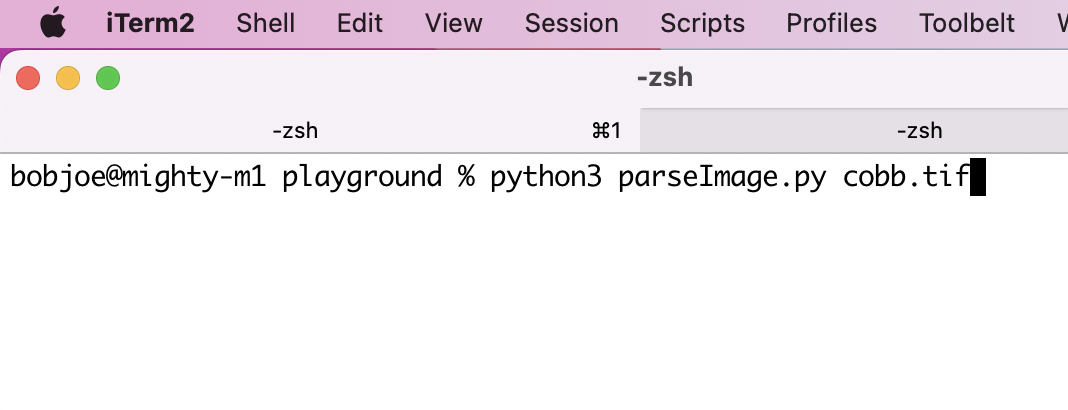
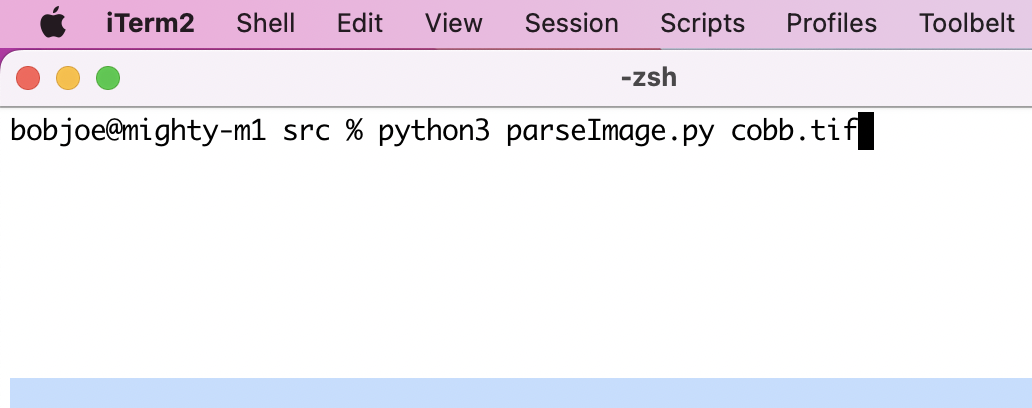
rename geotiff_play -> parseGeoTIFF.py, clean up README

diff --git a/src/getTarget.py b/src/getTarget.py
@@ -15,7 +15,7 @@ import mgrs # Military Grid ref converter
 import math
 from math import sin, asin, cos, atan2, sqrt
 import decimal # more float precision with Decimal objects
-import geotiff_play
+import parseGeoTIFF
 import sys
 
 """get the pos of current subject of UAS camera
@@ -237,7 +237,7 @@ def resolveTarget(y, x, z, azimuth, theta, elevationData, xParams, yParams):
     #     if so, skip iterative search b/c target is directly
     #     below us:
     if math.isclose((math.pi / 2), theta):
-        terrainAlt = geotiff_play.getAltFromLatLon(y, x, xParams, yParams, elevationData)
+        terrainAlt = parseGeoTIFF.getAltFromLatLon(y, x, xParams, yParams, elevationData)
         finalDist = z - terrainAlt
         if finalDist < 0:
             print(f'\n ERROR: bad calculation!\n')
@@ -296,9 +296,9 @@ def resolveTarget(y, x, z, azimuth, theta, elevationData, xParams, yParams):
     curY = decimal.Decimal(y)
     curX = decimal.Decimal(x)
     curZ = decimal.Decimal(z)
-    altDiff = curZ - geotiff_play.getAltFromLatLon(curY, curX, xParams, yParams, elevationData)
+    altDiff = curZ - parseGeoTIFF.getAltFromLatLon(curY, curX, xParams, yParams, elevationData)
     while altDiff > threshold:
-        groundAlt = geotiff_play.getAltFromLatLon(curY, curX, xParams, yParams, elevationData)
+        groundAlt = parseGeoTIFF.getAltFromLatLon(curY, curX, xParams, yParams, elevationData)
         altDiff = curZ - groundAlt
 
         avgAlt = curZ
@@ -325,7 +325,7 @@ def resolveTarget(y, x, z, azimuth, theta, elevationData, xParams, yParams):
     # simple pythagorean theorem
     # may be inaccurate for very very large horizontal distances
     finalDist = sqrt(finalHorizDist ** 2 + finalVertDist ** 2)
-    terrainAlt = geotiff_play.getAltFromLatLon(curY, curX, xParams, yParams, elevationData)
+    terrainAlt = parseGeoTIFF.getAltFromLatLon(curY, curX, xParams, yParams, elevationData)
 
     return((finalDist, curY, curX, curZ, terrainAlt))
 

diff --git a/src/parseGeoTIFF.py b/src/parseGeoTIFF.py
@@ -6,20 +6,28 @@ from math import sin, asin, cos, atan2, sqrt
 import decimal # more float precision with Decimal objects
 import getTarget
 # import numpy
-# import sys
+import sys
 
-# geotiff_play
+# parseGeoTIFF
 
 def main():
 
     print("Hello World!")
-    print("I'm geotiff_play.py")
+    print("I'm parseGeoTIFF.py")
     print("Which File would you like to read?")
 
-    geofile = input("Enter the GeoTIF filename: ")
+
+    if 1 < len(sys.argv) and len(sys.argv) < 3:
+        if sys.argv[1].split('.')[-1].lower() != "tif":
+            outstr = f'FATAL ERROR: got argument: {sys.argv[1]}, expected GeoTIFF DEM!'
+            sys.exit(outstr)
+        else:
+            geofile = sys.argv[1].strip()
+    else:
+        geofile = input("Enter the GeoTIF filename: ").strip()
     # geofile = 'Rome-30m-DEM.tif'
 
-    print("Okay, grabbing the GeoTIF file named: ", geofile)
+    print("Okay, grabbing the GeoTIF file named: ", geofile, "\n")
 
 
     # based on:
@@ -31,7 +39,7 @@ def main():
     elevation = band.ReadAsArray()
 
     print("The shape of the elevation data is: ", elevation.shape)
-    time.sleep(3)
+    time.sleep(1)
 
 
 

diff --git a/src/parseImage.py b/src/parseImage.py
@@ -51,7 +51,7 @@ import difflib
 # unused :(
 # from libxmp.utils import file_to_dict # python-xmp-toolkit, (c) ESA
 
-from geotiff_play import getAltFromLatLon, binarySearchNearest
+from parseGeoTIFF import getAltFromLatLon, binarySearchNearest
 from getTarget import *
 
 """prompt the user for options input,

diff --git a/README.md b/README.md
@@ -93,13 +93,13 @@ This software is in pre-alpha and results are not guaranteed to be accurate. Use
 
 [Python3](https://www.python.org/) (and the included pip package manager) must be installed first
 
-All you need to do is run `pip3 install gdal matplotlib mgrs`, then run `playground/geotiff_play.py` with python3:
+All you need to do is run `pip3 install gdal matplotlib mgrs`, then run `src/parseGeoTIFF.py` with python3:
 ```bash
 pip3 install gdal matplotlib mgrs
 # if this fails, instead install the GDAL package with your package manager (i.e. apt, yum, brew, pacman, etc.)
 git clone https://github.com/mkrupczak3/OpenAthena.git
-cd OpenAthena/playground
-python3 geotiff_play.py
+cd OpenAthena/src
+python3 parseGeoTIFF.py
 ```
 
 "pip3" and "python3" may just be called "pip" and "python" depending on the configuration of your system
@@ -110,16 +110,16 @@ This software is in pre-alpha and results are not guaranteed to be accurate. Use
 
 ### parseImage.py
 
-[parseImage.py](./playground/parseImage.py) can perform automatic extraction and use of EXIF/XMP sensor information from drone photos. This allows for the automatic extraction and use of data including the aircraft camera's lat/lon, altitude, azimuth, and angle of declenation (theta). OpenAthena (if provided [terrain elevation data](./EIO_fetch_geotiff_example.md)) will extract and use these values automaticaly to find the location on the ground in the exact center of the image
+[parseImage.py](./src/parseImage.py) can perform automatic extraction and use of EXIF/XMP sensor information from drone photos. This allows for the automatic extraction and use of data including the aircraft camera's lat/lon, altitude, azimuth, and angle of declenation (theta). OpenAthena (if provided [terrain elevation data](./EIO_fetch_geotiff_example.md)) will extract and use these values automaticaly to find the location on the ground in the exact center of the image
 
 [![image of command line on MacOS, command python3 parseImage.py bartow.tif, output and prompting user for drone image filename](./assets/parseImage_interactive_example2.png)](drone_sensor_data_blurb.md)
 
 
 More info [**here**](drone_sensor_data_blurb.md)
 
-### geotiff_play.py
+### parseGeoTIFF.py
 
-Run python geotiff_play.py (while in the playground directory) for a demonstration of [geoTIFF](https://en.wikipedia.org/wiki/GeoTIFF) [DEM](https://en.wikipedia.org/wiki/Digital_elevation_model) parsing. The file `Rome-30m-DEM.tif` is provided in the `playground` directory as an example. A DEM covering a customized area can be [easily obtained](./EIO_fetch_geotiff_example.md) using the python `elevation` API
+Run python parseGeoTIFF.py (while in the src directory) for a demonstration of [GeoTIFF](https://en.wikipedia.org/wiki/GeoTIFF) [DEM](https://en.wikipedia.org/wiki/Digital_elevation_model) parsing. The file `Rome-30m-DEM.tif` is provided in the `src` directory as an example. A DEM covering a customized area can be [easily obtained](./EIO_fetch_geotiff_example.md) using the python `elevation` API
 
 
 (counterintuitively, the x and y axis are backwards in the standard notation of a position via [latitude , longitude])
@@ -128,8 +128,8 @@ Run python geotiff_play.py (while in the playground directory) for a demonstrati
 
 
 ```
-user@mypc:~/projects/OpenAthena/playground$
-python geotiff_play.py
+user@mypc:~/projects/OpenAthena/src$
+python parseGeoTIFF.py
 ```
 ![render of terrain around Rome](./assets/render_cli_screenshot.png)
 
@@ -142,10 +142,10 @@ Then, exit the picture window that appears. You will now be prompted in the comm
 getTarget.py searches along the constructed line (emmitted from the camera center) for a terrain match
 
 
-To start, `cd` into the `playground` directory, then run getTarget.py:
+To start, `cd` into the `src` directory, then run getTarget.py:
 
 ```bash
-you@yourcomputer playground % python3 getTarget.py
+you@yourcomputer src % python3 getTarget.py
 ```
 
 You should then see the following prompt:
@@ -156,7 +156,7 @@ Which GeoTiff file would you like to read?
 Enter the GeoTIFF filename:
 ```
 
-You can clip [your own geoTIFF file](./playground/EIO_fetch_geotiff_example.md) from the [elevation API command line](http://elevation.bopen.eu/en/stable/quickstart.html#command-line-usage), or just use the provided example file `Rome-30m-DEM.tif` which contains the elevation data of the city of Rome, Italy and its outlying area
+You can clip [your own GeoTIFF file](./EIO_fetch_geotiff_example.md) from the [elevation API command line](http://elevation.bopen.eu/en/stable/quickstart.html#command-line-usage), or just use the provided example file `Rome-30m-DEM.tif` which contains the elevation data of the city of Rome, Italy and its outlying area
 
 
 ```bash
@@ -221,6 +221,8 @@ Target (lat, lon): 33.8352826, -84.5219971
 Google Maps: https://maps.google.com/?q=33.835283,-84.521997
 
 NATO MGRS: 16SGC2930646654
+MGRS 10m: 33TUG03953105
+MGRS 100m: 33TUG039310
 
 ```
 
@@ -246,7 +248,7 @@ The values should be tested for correctness and not totally relied upon in the c
 `Google Maps:` a link to the previous lat/lon on Google Maps. Each rounded to 6 decimal places
 
 
-`NATO MGRS: ` represents the target location in the [NATO Military Grid Reference System (MGRS)](https://en.wikipedia.org/wiki/Military_Grid_Reference_System), which is simmilar to [UTM](https://en.wikipedia.org/wiki/Universal_Transverse_Mercator_coordinate_system). This coordinate system does not include the altitude of the Target
+`NATO MGRS:` represents the target location in the [NATO Military Grid Reference System (MGRS)](https://en.wikipedia.org/wiki/Military_Grid_Reference_System), which is simmilar to [UTM](https://en.wikipedia.org/wiki/Universal_Transverse_Mercator_coordinate_system). This coordinate system does not include the altitude of the Target
 
 
 The program `getTarget.py` will then exit

diff --git a/EIO_fetch_geotiff_example.md b/EIO_fetch_geotiff_example.md
@@ -17,7 +17,7 @@ The `--bounds` option accepts latitude and longitude coordinates (more precisely
 
     $ eio clip -o Rome-30m-DEM.tif --bounds 12.35 41.8 12.65 42
 
-In the preceeding example, `12.35` is the western longitude bound, `41.8` is the southern latitude bound, `12.65` is the eastern most longitude bound, and `42` is the northernmost latitude bound of the rectangular area of the desired geoTIFF file.
+In the preceeding example, `12.35` is the western longitude bound, `41.8` is the southern latitude bound, `12.65` is the eastern most longitude bound, and `42` is the northernmost latitude bound of the rectangular area of the desired GeoTIFF file.
 
 To clean up stale temporary files and fix the cache in the event of a server error use:
 
@@ -33,4 +33,4 @@ The excellent elevation data set is generated by a technique known as [Synthetic
 The dataset for the elevation API backing the `eio clip` was generated by the (Space) [Shuttle Radar Topography Mission](https://en.wikipedia.org/wiki/Shuttle_Radar_Topography_Mission#Highest_Resolution_Global_Release) conducted in the year 2000. In 2015 a high resolution global [digital elevation model](https://en.wikipedia.org/wiki/Digital_elevation_model), derived from the SRTM dataset, covering most of the world was released to the public without restriction. This DEM derived from the SRTM mission has a high resolution of 1-arc second (approx 30 meters). [Studies](https://www.sciencedirect.com/science/article/pii/S2090447917300084) have shown the vertical accuracy of the datapoints are very good, with error being observed to be within +/- 10 meters, despite the +/- 16 meters figure which was published in the SRTM data specification
 
 ## Improvement
-OpenAthena can accept DEM geoTIFF files of higher resolution or accuracy than the SRTM dataset, if provided by the user. Newer synthetic aperature radar datasets and LIDAR datasests are likely availible to those with significant resources
+OpenAthena can accept DEM GeoTIFF files of higher resolution or accuracy than the SRTM dataset, if provided by the user. Newer synthetic aperature radar datasets and LIDAR datasests are likely availible to those with significant resources

diff --git a/drone_sensor_data_blurb.md b/drone_sensor_data_blurb.md
@@ -4,7 +4,7 @@ The consumer models of some drones do not display their position, altitude, came
 
 ### parseImage.py
 
-[parseImage.py](./playground/parseImage.py) has an experimental feature for automatic extraction and use of EXIF/XMP sensor information from drone photos
+[parseImage.py](./src/parseImage.py) has an experimental feature for automatic extraction and use of EXIF/XMP sensor information from drone photos
 
 parseImage.py can be run in an **interactive** mode, or **headless** mode based on how many arguments are given after `python parseImage.py`. **Interactive** is designed for use by humans with one or more images, **headless** is designed for use by automation with one or more images. The output of **headless** mode is subject to change in future versions
 
@@ -27,7 +27,7 @@ python parseImage.py bartow.tif
 
 ![image of command line on MacOS, command python3 parseImage.py bartow.tif, output and prompting user for drone image filename](./assets/parseImage_interactive_example2.png)
 
-Enter the full file path of the drone image if it is not in the `playground` directory. Otherwise, just input the image filename and press **RETURN**
+Enter the full file path of the drone image if it is not in the `src` directory. Otherwise, just input the image filename and press **RETURN**
 
 Multiple images can be processed at once in **interactive** mode. When you're finished inputing images, type **`done`** to begin processing
 
